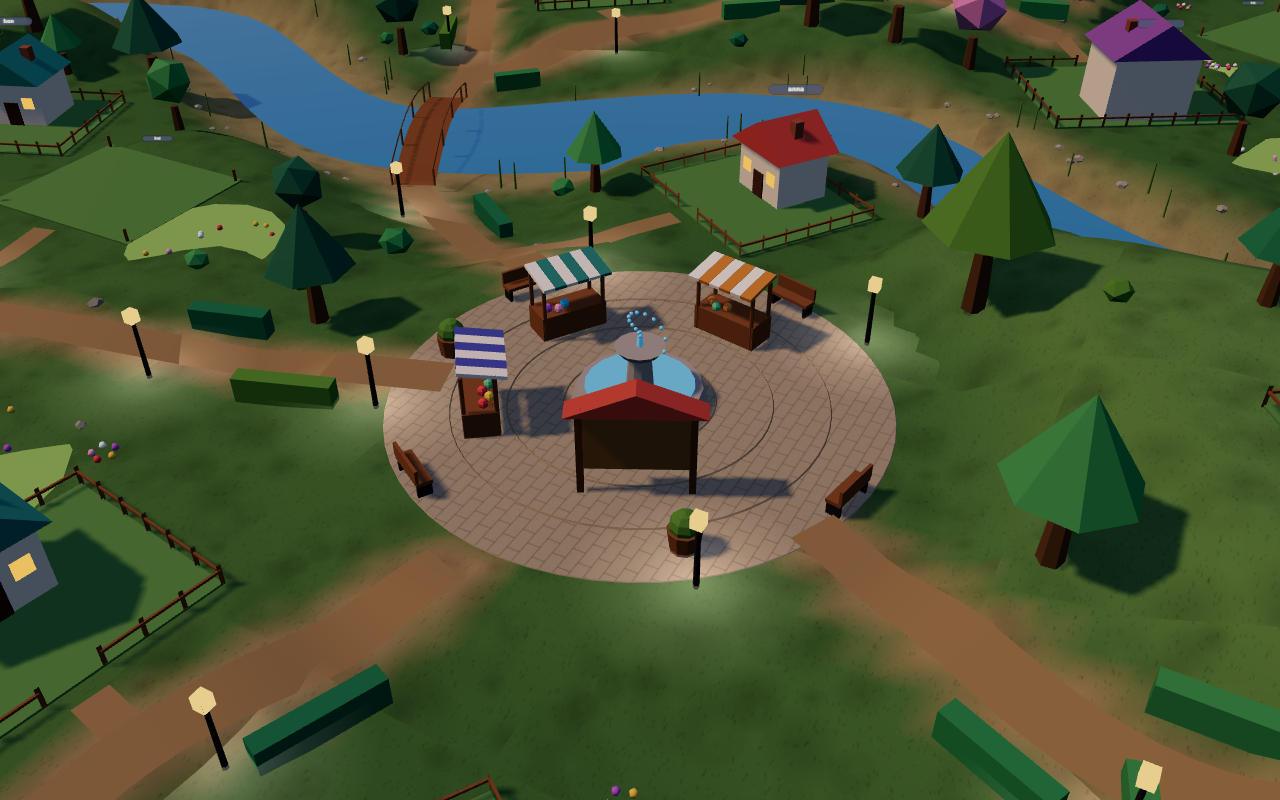
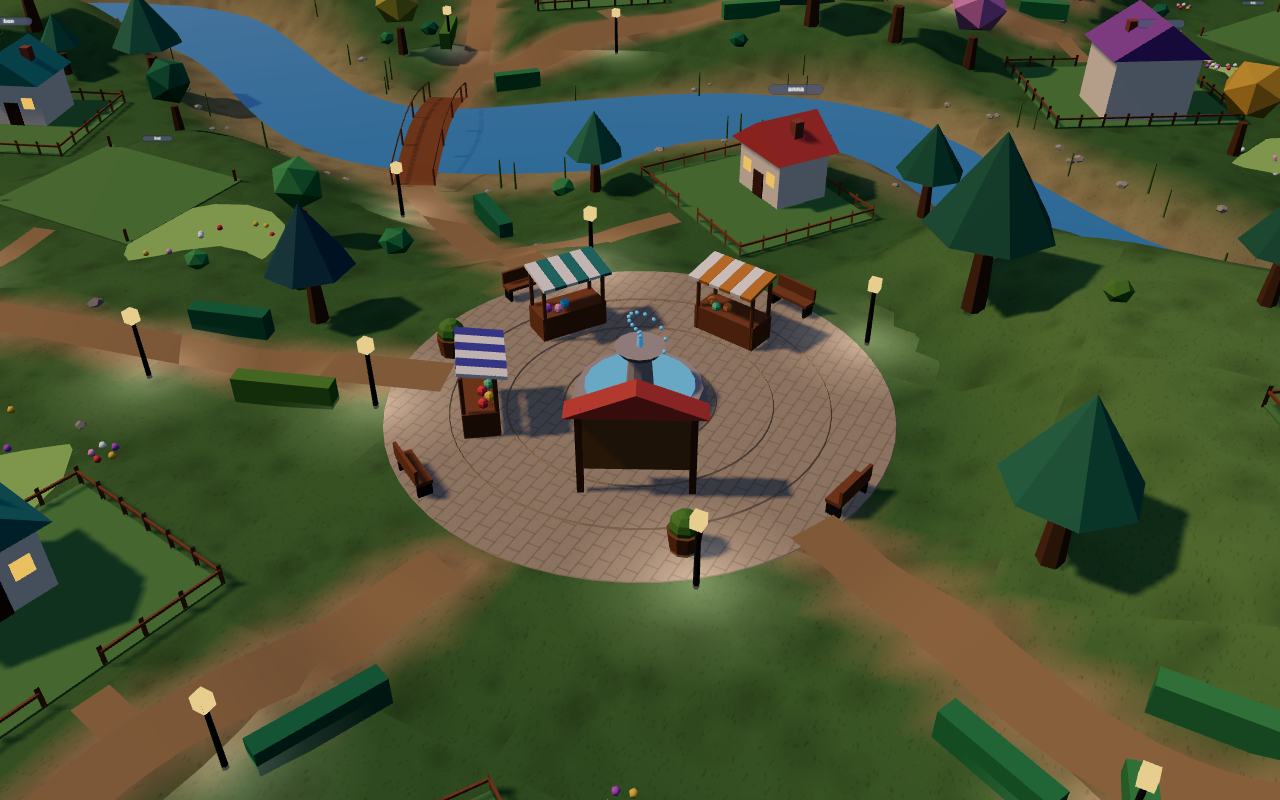
Baumfarben: warme und blaugrüne Kronen
Laubbäume mit Ocker, Orange und Gelbgrün, Nadelbäume bleiben kühl.

diff --git a/web/src/render/nature.ts b/web/src/render/nature.ts
@@ -20,7 +20,10 @@ import {
 } from '../world/scatter';
 
 const TRUNK = '#6b4a2f';
-const CROWNS = ['#2f7d5b', '#3a8f63', '#2c6e57', '#4d9a5d', '#5d8f3e'];
+// round crowns: greens with warm and teal accents, so the valley is not one green (LOOK §8)
+const CROWNS = ['#2f7d5b', '#5fa04c', '#c9a23e', '#3f8f8a', '#8aa84a', '#d4893a', '#4d9a5d', '#b9b24a'];
+// pines stay dark and cool
+const PINES = ['#2c6e57', '#2f6e5a', '#3a7f66', '#2a5f6b'];
 const BLOSSOM = '#d98cc5';
 
 /** Soft radial gradient for the light pools on the ground (LOOK §7). */
@@ -76,11 +79,12 @@ function treeGroup(trees: Tree[], kind: Tree['kind']): THREE.Group {
         .setPosition(t.x, t.y, t.z);
     }),
   );
+  const palette = kind === 'pine' ? PINES : CROWNS;
   const colour = (i: number): THREE.Color => {
     const t = list[i];
     // a fixed colour per tree; about one in nine is a rare pink blossom tree (LOOK §8)
     const h = Math.abs(Math.floor(t.x * 7 + t.z * 3));
-    return new THREE.Color(h % 9 === 0 ? BLOSSOM : CROWNS[h % CROWNS.length]);
+    return new THREE.Color(h % 9 === 0 ? BLOSSOM : palette[h % palette.length]);
   };
   if (kind === 'pine') {
     const crown = new THREE.ConeGeometry(1.2, 1.8, 7);

diff --git a/docs/PLAN.md b/docs/PLAN.md
@@ -228,3 +228,4 @@ Ziel: Schüler kaufen Deko und gestalten ihr Grundstück; Mitschüler sehen es.
 | 17.10.2026 | L.6 Hecken und Blumenwiesen | Hecken als kurze Reihen 1,6 m neben den Wegen (`placeHedges` in `world/scatter.ts`, Instancing in `render/nature.ts`). Blumenflecken: flache helle Wiese mit 9–14 Blüten, nur auf ebenem Boden (`placeMeadows`). Vitest: Hecken nie auf Wegen, Blumen innerhalb des Flecks und abseits von Wegen (255 Tests grün). Offen: Bepflanzung freier Grundstücke, Mengen nach SPEC §10.6 prüfen |
 | 17.10.2026 | Licht nachgezogen | Grastextur war grau (`#e4e4e4`) und hat alle Wiesen um rund ein Fünftel abgedunkelt. Jetzt fast weiß, die Farbe kommt aus den Vertex-Farben (LOOK §4). Rauheit 0,88 nach LOOK. Die Sonne bekommt die in LOOK §3 festgelegten Schatten-Bias-Werte und die Belichtung 1,05 fehlte. Galerie und Dorfansicht gleich. Offen: Himmel und ferne Hügel etwas heller, wie im Soll-Bild |
 | 17.10.2026 | L.3 Ufersteine | Graue Steine an beiden Ufern, 4,6–5,8 m von der Flussmitte, halb eingesunken (`placeShoreStones` in `world/scatter.ts`, Instancing in `render/nature.ts`). Vitest: Steine nur am Ufer, nie im Wasser (258 Tests grün). Offen: Gelände unter den Wegen glätten (braucht Wegdaten im Terrain), Uferschnitt an steilen Hängen |
+| 17.10.2026 | Baumfarben | Laubbäume mit Ocker, Orange, Gelbgrün und Blaugrün neben den Grüntönen; Nadelbäume bleiben kühl dunkel (`render/nature.ts`, Paletten `CROWNS` und `PINES`). Galerie geprüft. Offen: die Wiesen selbst wirken noch sehr grün |
